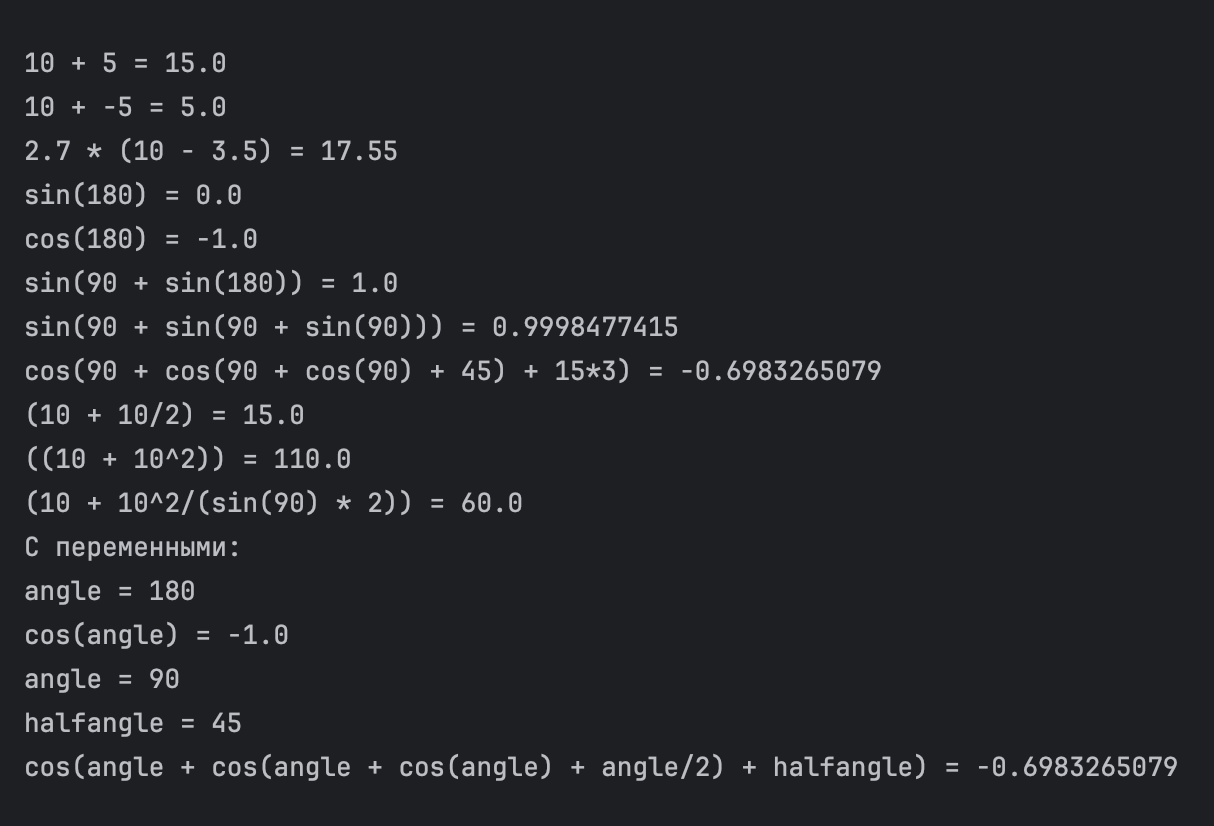
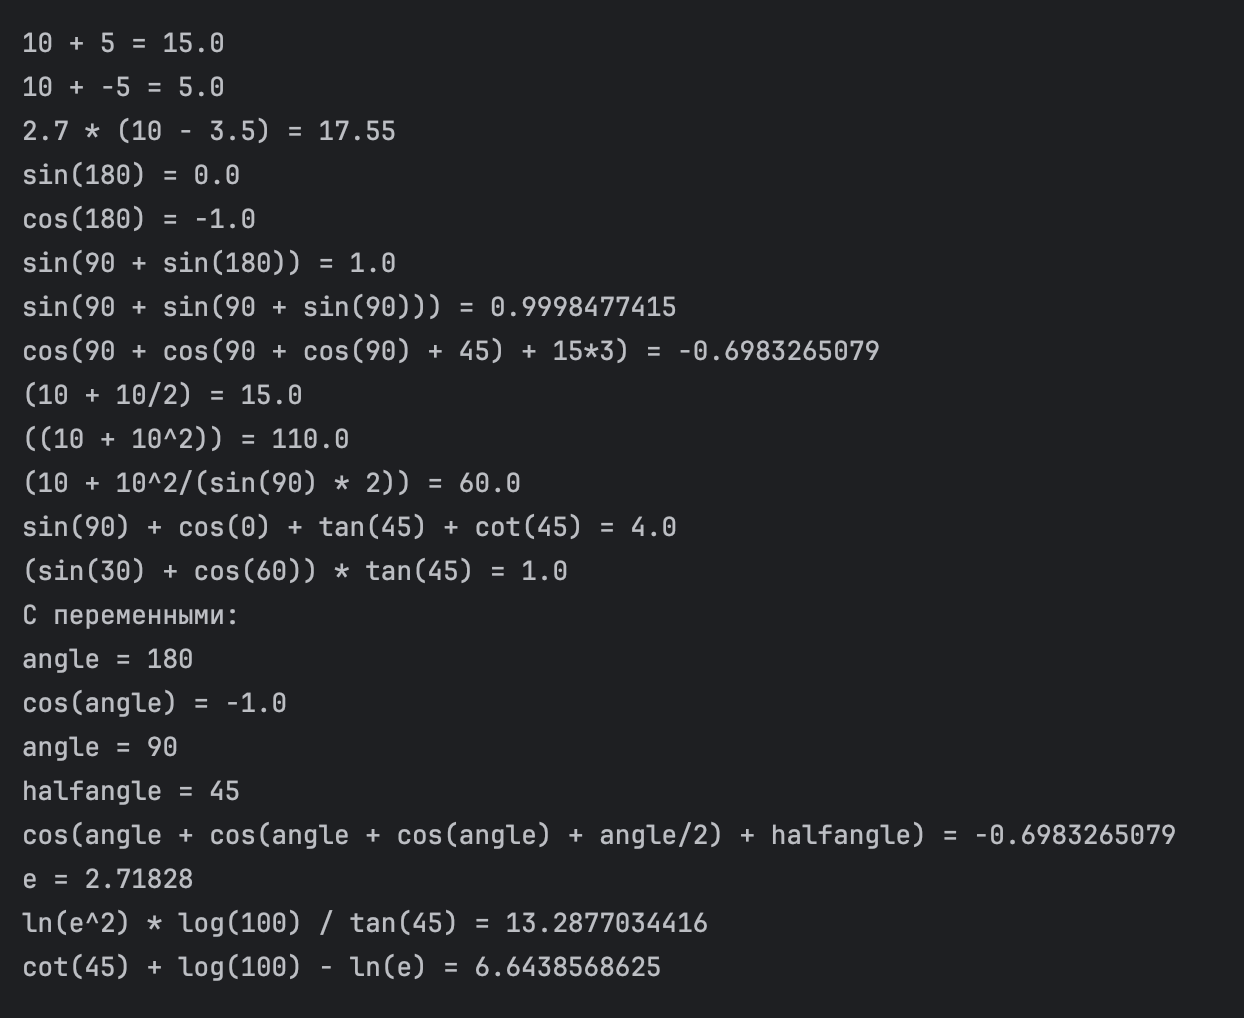
add support tan(), cot(), log(), ln() commit

diff --git a/src/main/java/org/example/ExpressionEvaluator.java b/src/main/java/org/example/ExpressionEvaluator.java
@@ -7,12 +7,12 @@ import java.lang.Math;
  * Вычислитель выражений.
  *
  * <p>
- * Класс предоставляет собой вычислитель выражений с поддержкой функций sin(), cos() и переменных.
+ * Класс предоставляет собой вычислитель выражений с поддержкой функций {@code sin()}, {@code cos()}, {@code tan()}, {@code cot()}, {@code log()}, {@code ln()} и переменных.
  * <p>
  * В классе есть один публичный метод {@code evaluate(String eval, Map<String, Double> variables)}, который парсит и вычисляет арифметические выражения из строк.
  *
  * @author Nikita Filippov
- * @version 1.0
+ * @version 1.1
  * @since 2025
  */
 public class ExpressionEvaluator {
@@ -68,6 +68,12 @@ public class ExpressionEvaluator {
         int len = eval.length();
         int counter = 0;
         Set<String> linkedSet = new LinkedHashSet<>();
+        String strsin = "sin";
+        String strcos = "cos";
+        String strtan = "tan";
+        String strcot = "cot";
+        String strlog = "log";
+        String strln = "ln";
         String varName = "";
         for (int i = 0; i < len; i++) {
             char c = eval.charAt(i);
@@ -77,7 +83,7 @@ public class ExpressionEvaluator {
                 varName = varName + c;
             } else {
                 if (counter > 0) {
-                    if (!varName.equals("sin") && !varName.equals("cos")) {
+                    if (!strsin.contains(varName) && !strcos.contains(varName) && !strtan.contains(varName) && !strcot.contains(varName) && !strlog.contains(varName) && !strln.contains(varName)) {
                         linkedSet.add(varName);
                     }
                     varName = "";
@@ -86,7 +92,7 @@ public class ExpressionEvaluator {
             }
         }
         if (!varName.isEmpty()) {
-            if (!varName.equals("sin") && !varName.equals("cos")) {
+            if (!strsin.contains(varName) && !strcos.contains(varName) && !strtan.contains(varName) && !strcot.contains(varName) && !strlog.contains(varName) && !strln.contains(varName)) {
                 linkedSet.add(varName);
             }
             varName = "";
@@ -148,7 +154,7 @@ public class ExpressionEvaluator {
     /**
      * Заменяет функции с аргументом на их численные значения.
      *
-     * @param eval строка, в которой могут быть функции {@code sin()}, {@code cos()}.
+     * @param eval строка, в которой могут быть функции {@code sin()}, {@code cos()}, {@code tan()}, {@code cot()}, {@code log()}, {@code ln()}.
      * @return строка без функций.
      */
     private static String calculateFunctions(String eval) {
@@ -158,13 +164,13 @@ public class ExpressionEvaluator {
         String varName = "";
         for (int i = 0; i < len; i++) {
             char c = eval.charAt(i);
-            boolean isLatinLetter = (c >= 'a' && c <= 'z') || (c >= 'A' && c <= 'Z') || (c == '(' && varName.length() == 3);
+            boolean isLatinLetter = (c >= 'a' && c <= 'z') || (c >= 'A' && c <= 'Z') || (c == '(' && (varName.length() == 3 || varName.equals("ln")));
             if (isLatinLetter) {
                 counter++;
                 varName = varName + c;
             } else {
                 if (counter > 0) {
-                    if (varName.equals("sin(") || varName.equals("cos(")) {
+                    if (varName.equals("sin(") || varName.equals("cos(") || varName.equals("tan(") || varName.equals("cot(") || varName.equals("log(") || varName.equals("ln(")) {
                         int j = i;
                         int counterBrackets = 1;
                         while (counterBrackets != 0) {
@@ -173,7 +179,7 @@ public class ExpressionEvaluator {
                             if (inner_c == '(') counterBrackets++;
                             if (inner_c == ')') counterBrackets--;
                         }
-                        listOfStartAndEndEvals.add(new int[]{i, j});
+                        listOfStartAndEndEvals.add(new int[]{i, j, varName.length()});
                     }
                     varName = "";
                 }
@@ -185,19 +191,41 @@ public class ExpressionEvaluator {
         int curElem = 0;
         for (int[] startAndEndEvals : listOfStartAndEndEvals) {
             String cutPart = eval.substring(startAndEndEvals[0], startAndEndEvals[1]);
-            String func = eval.substring(startAndEndEvals[0] - 4, startAndEndEvals[0] - 1);
+            String func = eval.substring(startAndEndEvals[0] - startAndEndEvals[2], startAndEndEvals[0] - 1);
             double resultOfArg = evaluateWithoutVariables(cutPart);
             double resultOfFunc = switch (func) {
                 case "sin" -> Math.sin(Math.toRadians(resultOfArg));
                 case "cos" -> Math.cos(Math.toRadians(resultOfArg));
+                case "tan" -> {
+                    double tanValue = Math.tan(Math.toRadians(resultOfArg));
+                    if (tanValue > 10e13) {
+                        throw new ArithmeticException("Тангенс не определен");
+                    }
+                    yield tanValue;
+                }
+                case "cot" -> {
+                    double tanValue = Math.tan(Math.toRadians(resultOfArg));
+                    if (tanValue == 0) {
+                        throw new ArithmeticException("Котангенс не определен");
+                    }
+                    yield 1.0 / tanValue;
+                }
+                case "ln" -> {
+                    if (resultOfArg <= 0) throw new ArithmeticException("Логарифм определен только для положительных чисел");
+                    yield Math.log(resultOfArg);
+                }
+                case "log" -> {
+                    if (resultOfArg <= 0) throw new ArithmeticException("Логарифм определен только для положительных чисел");
+                    yield Math.log(resultOfArg) / Math.log(2);
+                }
                 default -> resultOfArg;
             };
-            eval = eval.substring(0, startAndEndEvals[0] - 4) + parseNumber(String.valueOf(resultOfFunc)) + eval.substring(startAndEndEvals[1] + 1);
+            eval = eval.substring(0, startAndEndEvals[0] - startAndEndEvals[2]) + parseNumber(String.valueOf(resultOfFunc)) + eval.substring(startAndEndEvals[1] + 1);
             int curCorrection = 0;
             for (int[] startAndEndEvalsForCorrectionIndexes : listOfStartAndEndEvals) {
                 if (curElem <= curCorrection && startAndEndEvalsForCorrectionIndexes[1] > startAndEndEvals[1]) {
                     int resultOfArgLen = String.valueOf(parseNumber(String.valueOf(resultOfFunc))).length();
-                    int evalFuncLen = startAndEndEvals[1] + 1 - (startAndEndEvals[0] - 4);
+                    int evalFuncLen = startAndEndEvals[1] + 1 - (startAndEndEvals[0] - startAndEndEvals[2]);
                     int diff = evalFuncLen - resultOfArgLen;
                     startAndEndEvalsForCorrectionIndexes[1] = startAndEndEvalsForCorrectionIndexes[1] - diff;
                 }
@@ -563,6 +591,7 @@ public class ExpressionEvaluator {
      */
     public static double evaluate(String eval, Map<String, Double> variables) {
         eval = eval.replace(" ", "");
+        eval = eval.toLowerCase();
         boolean isValid = isValidExpression(eval);
         if (!isValid) {
             throw new IllegalArgumentException("expression is not correct.");

diff --git a/src/test/java/org/example/ExpressionEvaluatorTest.java b/src/test/java/org/example/ExpressionEvaluatorTest.java
@@ -12,11 +12,13 @@ class ExpressionEvaluatorTest {
 
     private Map<String, Double> mapa;
     private Map<String, Double> mapa2;
+    private Map<String, Double> mapaE;
 
     @BeforeEach
     void setUp() {
         mapa = new HashMap<>();
         mapa2 = new HashMap<>();
+        mapaE = new HashMap<>();
     }
 
     @Test
@@ -133,4 +135,44 @@ class ExpressionEvaluatorTest {
 
         assertEquals(2.0, ExpressionEvaluator.evaluate("((((2))))", mapa));
     }
+
+    @Test
+    void testExtraFunctions() {
+        mapaE.put("e", 2.71828);
+        assertEquals(1.0, ExpressionEvaluator.evaluate("ln(e)", mapaE), 1e-5);
+        assertEquals(2.0, ExpressionEvaluator.evaluate("log(4)", mapaE), 1e-5);
+        assertEquals(0.0, ExpressionEvaluator.evaluate("ln(1)", mapaE), 1e-5);
+        assertEquals(0.0, ExpressionEvaluator.evaluate("log(1)", mapaE), 1e-5);
+        assertEquals(13.2877034416, ExpressionEvaluator.evaluate("ln(e^2) * log(100) / tan(45)", mapaE), 1e-4);
+        assertEquals(6.6438568625, ExpressionEvaluator.evaluate("cot(45) + log(100) - ln(e)", mapaE), 1e-4);
+        assertEquals(4.0, ExpressionEvaluator.evaluate("sin(90) + cos(0) + tan(45) + cot(45)", mapaE), 1e-4);
+    }
+
+    @Test
+    void testMathematicalExceptions() {
+        ArithmeticException exception1 = assertThrows(ArithmeticException.class,
+                () -> ExpressionEvaluator.evaluate("10 / 0", mapa));
+        assertTrue(exception1.getMessage().contains("Division by zero"));
+
+        ArithmeticException exception2 = assertThrows(ArithmeticException.class,
+                () -> ExpressionEvaluator.evaluate("tan(90)", mapa));
+        assertTrue(exception2.getMessage().contains("Тангенс не определен"));
+
+        ArithmeticException exception3 = assertThrows(ArithmeticException.class,
+                () -> ExpressionEvaluator.evaluate("cot(0)", mapa));
+        assertTrue(exception3.getMessage().contains("Котангенс не определен"));
+
+        ArithmeticException exception4 = assertThrows(ArithmeticException.class,
+                () -> ExpressionEvaluator.evaluate("ln(-5)", mapa));
+        assertTrue(exception4.getMessage().contains("Логарифм определен только для положительных чисел"));
+
+        ArithmeticException exception5 = assertThrows(ArithmeticException.class,
+                () -> ExpressionEvaluator.evaluate("log(-10)", mapa));
+        assertTrue(exception5.getMessage().contains("Логарифм определен только для положительных чисел"));
+
+        ArithmeticException exception6 = assertThrows(ArithmeticException.class,
+                () -> ExpressionEvaluator.evaluate("ln(0)", mapa));
+        assertTrue(exception6.getMessage().contains("Логарифм определен только для положительных чисел"));
+    }
+
 }

diff --git a/src/main/java/org/example/Main.java b/src/main/java/org/example/Main.java
@@ -7,6 +7,7 @@ public class Main {
     public static void main(String[] args) {
         Map<String, Double> mapa = new LinkedHashMap<>();
         Map<String, Double> mapa2 = new LinkedHashMap<>();
+        Map<String, Double> mapaE = new LinkedHashMap<>();
         System.out.println();
         System.out.println("10 + 5 = " + ExpressionEvaluator.evaluate("10 + 5", mapa));
         System.out.println("10 + -5 = " + ExpressionEvaluator.evaluate("10 + -5", mapa));
@@ -19,6 +20,8 @@ public class Main {
         System.out.println("(10 + 10/2) = " + ExpressionEvaluator.evaluate("(10 + 10/2)", mapa));
         System.out.println("((10 + 10^2)) = " + ExpressionEvaluator.evaluate("(10 + 10^2)", mapa));
         System.out.println("(10 + 10^2/(sin(90) * 2)) = " + ExpressionEvaluator.evaluate("(10 + 10^2/(sin(90) * 2))", mapa));
+        System.out.println("sin(90) + cos(0) + tan(45) + cot(45) = " + ExpressionEvaluator.evaluate("sin(90) + cos(0) + tan(45) + cot(45)", mapa));
+        System.out.println("(sin(30) + cos(60)) * tan(45) = " + ExpressionEvaluator.evaluate("(sin(30) + cos(60)) * tan(45)", mapa));
         System.out.println("С переменными: ");
         mapa.put("angle", 180.0);
         System.out.println("angle = 180");
@@ -28,7 +31,9 @@ public class Main {
         System.out.println("angle = 90");
         System.out.println("halfangle = 45");
         System.out.println("cos(angle + cos(angle + cos(angle) + angle/2) + halfangle) = " + ExpressionEvaluator.evaluate("cos(angle + cos(angle + cos(angle) + angle/2) + halfangle)", mapa2));
-
-        //System.out.println(Math.cos(Math.toRadians(90 + Math.cos(Math.toRadians(90 + Math.cos(Math.toRadians(90)) + 45)) + 15*3)));
+        mapaE.put("e", 2.71828);
+        System.out.println("e = 2.71828");
+        System.out.println("ln(e^2) * log(100) / tan(45) = " + ExpressionEvaluator.evaluate("ln(e^2) * log(100) / tan(45)", mapaE));
+        System.out.println("cot(45) + log(100) - ln(e) = " + ExpressionEvaluator.evaluate("cot(45) + log(100) - ln(e)", mapaE));
     }
 }

diff --git a/README.md b/README.md
@@ -1,5 +1,5 @@
 # Вычислитель выражений
-Класс вычисляет арифметические выражения из строк. Есть поддержка функций `sin()` и `cos()`, переменных.
+Класс вычисляет арифметические выражения из строк. Есть поддержка функций `sin()`, `cos()`, `tan()`, `cot()`, `log()` (логарифм по основанию 2) и `ln()`, переменных.
 Код лежит [здесь](https://github.com/Nikita-bite/secondLabJava/blob/main/src/main/java/org/example/ExpressionEvaluator.java).
 
 ## Пример работы
